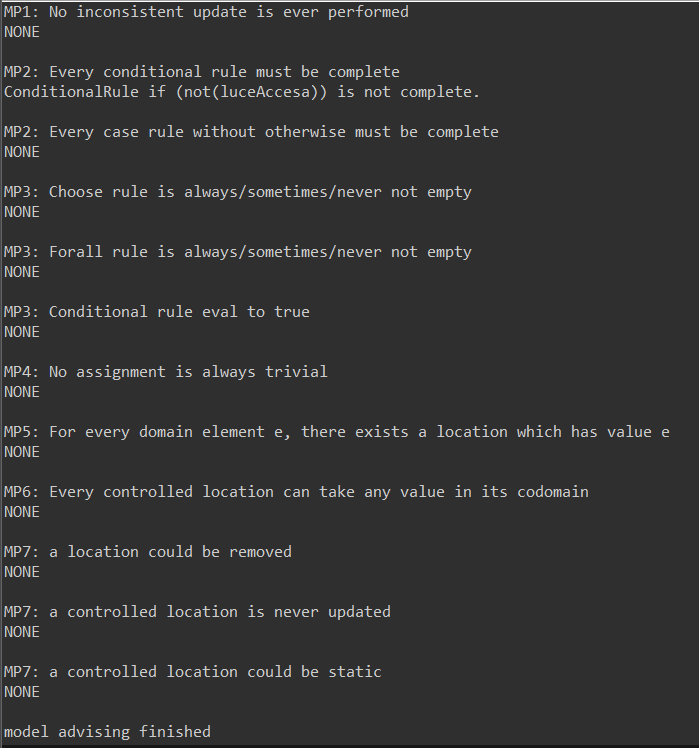
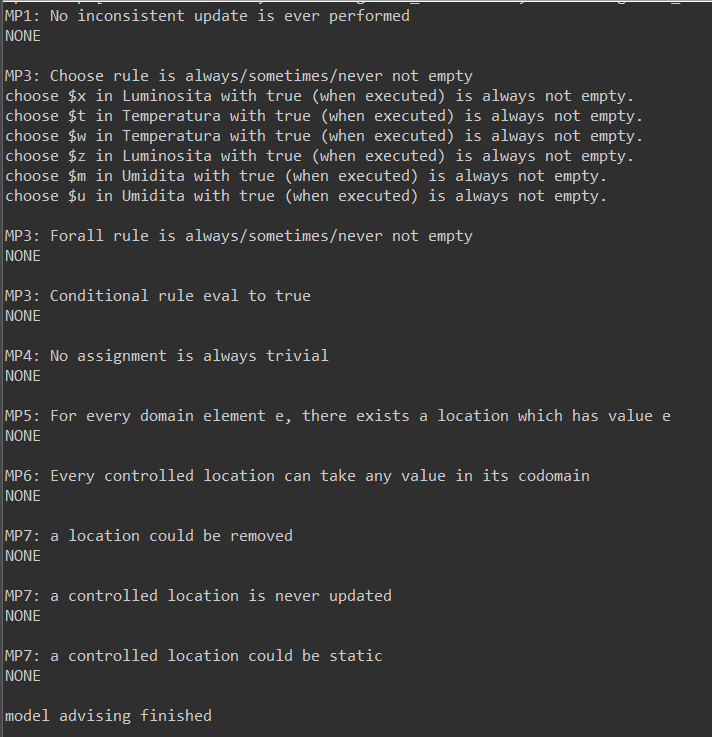
Modifica MA e MC
Modifica del file SerraSmartMinimal e conseguente modifica dei risultati del model checker e del model advisor.

Changed region(s): [[0.0, 0.0, 0.9614, 0.9362], [0.0, 0.9674, 0.3004, 0.9986]]

diff --git a/Asmeta/screenshots/ModelChecker/README.md b/Asmeta/screenshots/ModelChecker/README.md
@@ -1,0 +1,53 @@
+# Model Checker - Serra Smart 🌱
+
+Il model checker di ASMETA è uno strumento automatico che verifica se il modello ASM soddisfa certe proprietà logiche, in tutti i possibili scenari e stati. I suoi scopi principali sono i seguenti
+- verificare correttezza formale
+- trovare errori logici
+- dimostrare proprietà importanti come:
+	- Safety: “non succede mai qualcosa di sbagliato”
+	- Liveness: “prima o poi succede qualcosa di desiderato”
+- eseguire test esaustivi su comportamenti non coperti dagli scenari
+
+La sua esecuzione sul file `/SerraSmart.asm/` dà dei problemi relativi ai domini di tipo intero, i quali non sono supportati. Per questo motivo ho definito un modello semplificato contenente soltanto domini enumerativi e booleani,`/SerraSmartMinimal.asm/`, all'interno del quale si modellizza il funzionamento automatico o manuale della serra, con le seguenti modifiche:
+- il dominio delle luci passa da intero a enumerativo
+- il dominio degli irrigatori passa da intero a enumerativo
+- il livello degli irrigatori passa da intero a enumerativo (MASSIMO, MEDIO, ZERO)
+- le soglie massime e minime di luminosità, umidità e temperatura non vengono modellizzate
+- il valore di luminosità attuale viene simulato come un enumerativo tra LALTA, LGIUSTA e LBASSA
+- il valore di temperatura attuale viene simulato come un enumerativo tra TALTA, TGIUSTA e TBASSA
+- il valore di umidità attuale viene simulato come un enumerativo tra UALTA, UGIUSTA e UBASSA
+- le luci vengono accese se la luminosità attuale è LBASSA, oppure se la temperatura attuale è TBASSA
+- i ventilatori vengono accesi se la temperatura attuale è TALTA
+- gli irrigatori vengono accesi se l'umidità attuale è UBASSA
+- le luci vengono spente se la luminosità attuale è LALTA
+- i ventilatori vengono spenti se la temperatura attuale è TBASSA
+- gli irrigatori vengono spenti se l'umidità attuale è UALTA
+
+
+## Proprietà Definite
+Ho definito le seguenti proprietà CTL
+- Liveness: se la temperatura supera la soglia, prima o poi si attiva uno dei due ventilatori -->
+  `CTLSPEC ag ((temperaturaAttuale = TALTA and sceltaModalita = AUTOMATICA) implies ef (statoVentilatore(PRINCIPALE) = ACCESO or statoVentilatore(SECONDARIO) = ACCESO ))`
+- Safety: non devono essere accesi contemporaneamente tutti gli attuatori in qualsiasi momento -->
+  `CTLSPEC not ag(
+    (exist $l in Luci with statoLuce($l) = ON) and
+    (exist $i in Irrigatori with statoIrrigatore($i) = MASSIMO) and
+    (exist $v in Ventilatori with statoVentilatore($v) = ACCESO))`
+
+e le seguenti proprietà LTL
+- Until: le luci rimangono accese fino a quando la luce non supera la soglia -->
+  `LTLSPEC g ((luminositaAttuale = LBASSA) implies u(statoLuce(LUCE1) = ON, luminositaAttuale = LBASSA))`
+- Globale: se la serra è chiusa, nessun attuatore deve essere attivo -->
+  `LTLSPEC g (
+    serraChiusa implies
+    (forall $l in Luci with statoLuce($l) = OFF) and
+    (forall $i in Irrigatori with statoIrrigatore($i) = ZERO) and
+    (forall $v in Ventilatori with statoVentilatore($v) = SPENTO)
+    )`
+
+Nei file `/CTL1.png/`,`/CTL2.png/`, `/LTL1.png/` e `/LTL2.png/`  si può visualizzare l'output del model checker durante il controllo delle diverse proprietà.
+
+
+
+## Autore
+Samuel Gherardi

diff --git a/Asmeta/screenshots/ModelAdvisor/README.md b/Asmeta/screenshots/ModelAdvisor/README.md
@@ -6,7 +6,21 @@ Lo scopo del model advisor di ASMETA è quello di far eseguire ad ASMETA una ver
 - regole ridondanti o mai attivate
 - incoerenze nella semantica ASM
 
-La sua esecuzione sul file `/SerraSmart.asm/` dà dei problemi relativi ai domini di tipo intero, i quali non sono supportati. Per questo motivo ho definito un modello semplificato contenente soltanto domini enumerativi e booleani,`/SerraSmartMinimal.asm/`, all'interno del quale si modellizza soltanto il funzionamento di 2 luci che possono essere accese oppure spente.
+La sua esecuzione sul file `/SerraSmart.asm/` dà dei problemi relativi ai domini di tipo intero, i quali non sono supportati. Per questo motivo ho definito un modello semplificato contenente soltanto domini enumerativi e booleani,`/SerraSmartMinimal.asm/`, all'interno del quale si modellizza il funzionamento automatico o manuale della serra, con le seguenti modifiche:
+- il dominio delle luci passa da intero a enumerativo
+- il dominio degli irrigatori passa da intero a enumerativo
+- il livello degli irrigatori passa da intero a enumerativo (MASSIMO, MEDIO, ZERO)
+- le soglie massime e minime di luminosità, umidità e temperatura non vengono modellizzate
+- il valore di luminosità attuale viene simulato come un enumerativo tra LALTA, LGIUSTA e LBASSA
+- il valore di temperatura attuale viene simulato come un enumerativo tra TALTA, TGIUSTA e TBASSA
+- il valore di umidità attuale viene simulato come un enumerativo tra UALTA, UGIUSTA e UBASSA
+- le luci vengono accese se la luminosità attuale è LBASSA, oppure se la temperatura attuale è TBASSA
+- i ventilatori vengono accesi se la temperatura attuale è TALTA
+- gli irrigatori vengono accesi se l'umidità attuale è UBASSA
+- le luci vengono spente se la luminosità attuale è LALTA
+- i ventilatori vengono spenti se la temperatura attuale è TBASSA
+- gli irrigatori vengono spenti se l'umidità attuale è UALTA
+
 Nel file `/Model_advisor.png/` si può visualizzare l'output del model advisor.
 
 
